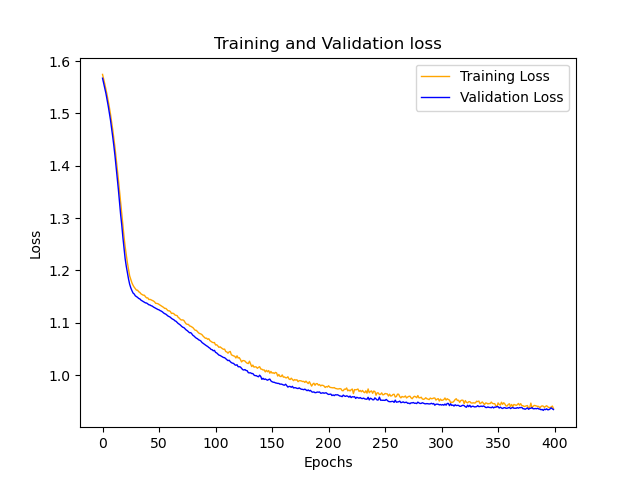
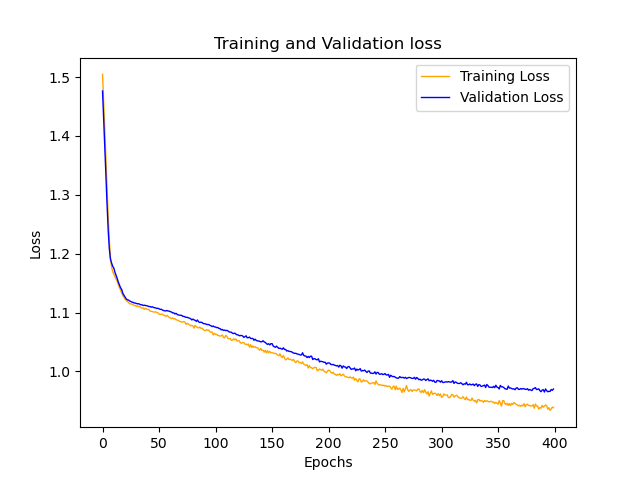
Added global pooling

diff --git a/src/graph_neural_nets.py b/src/graph_neural_nets.py
@@ -1,7 +1,7 @@
 import torch
 import torch.nn.functional as F
 from torch.nn import Sequential, Linear, BatchNorm1d, Dropout,LeakyReLU, AvgPool1d
-from torch_geometric.nn import GINEConv, GATConv
+from torch_geometric.nn import GINEConv, GATConv, global_add_pool
 
 class DiceLoss(torch.nn.Module):
     def __init__(self):
@@ -135,13 +135,11 @@ class GIN(torch.nn.Module):
                                         LeakyReLU(),
                                         Dropout(p=0.2)
                                         ), edge_dim=edge_dim)
-
-        #self.pool = AvgPool1d(kernel_size=3, stride=1)
-        self.lin = Sequential(Linear(h_dim*3, h_dim*3),
+        self.lin = Sequential(Linear(h_dim*4, h_dim*4),
                               LeakyReLU(),
-                              Linear(h_dim*3, 1))
+                              Linear(h_dim*4, 1))
 
-    def forward(self, x, edge_index, edge_attr):
+    def forward(self, x, edge_index, edge_attr, batch, device):
 
         # Node embeddings
         h1 = self.conv1(x, edge_index, edge_attr)
@@ -149,11 +147,12 @@ class GIN(torch.nn.Module):
         h3 = self.conv3(h2, edge_index, edge_attr)
 
         # Pooling
-        #h_pool = self.pool(torch.stack((h1,h2,h3), dim=-1))
+        h_pool = global_add_pool(h3, batch)
+        num_atoms_per_mol = torch.unique(batch, sorted=False, return_counts=True)[1]
+        h_pool_ = torch.repeat_interleave(h_pool, num_atoms_per_mol, dim=0)
 
         # Concatenate embeddings
-        #h = torch.cat((h1,h2, h3,torch.squeeze(h_pool)), dim=1)
-        h = torch.cat((h1,h2,h3), dim=1)
+        h = torch.cat((h1,h2,h3,h_pool_), dim=1)
 
         # Classify
         h = self.lin(h)
@@ -192,15 +191,21 @@ class GAT(torch.nn.Module):
                               LeakyReLU(),
                               Linear(h_dim*num_heads*3, 1))
 
-    def forward(self, x, edge_index, edge_attr):
+    def forward(self, x, edge_index, edge_attr, batch, device):
 
         # Node embeddings
         h1 = self.conv1(x, edge_index, edge_attr)
         h2 = self.conv2(h1, edge_index, edge_attr)
         h3 = self.conv3(h2, edge_index, edge_attr)
 
+        # Pooling
+        h_pool = global_add_pool(h3, batch)
+        h_pool_ = torch.zeros(h3.shape).to(device)
+        for i in range(len(batch)):
+            h_pool_[i,:] = h_pool[batch[i]]
+
         # Concatenate embeddings
-        h = torch.cat((h1,h2,h3), dim=1)
+        h = torch.cat((h1,h2,h3,h_pool_), dim=1)
 
         # Classify
         h = self.lin(h)
@@ -216,7 +221,7 @@ def train_oversampling(model, loader, lr, weight_decay, device):
     total_num_instances = 0
     for data in loader:
         data = data.to(device)
-        out = model(data.x, data.edge_index, data.edge_attr)  # forward pass
+        out = model(data.x, data.edge_index, data.edge_attr, data.batch, device)  # forward pass
         num_subsamplings = data.sampling_mask.shape[1]
         subsampling_losses = torch.zeros(num_subsamplings)
         for i in range(num_subsamplings):
@@ -233,12 +238,12 @@ def train_oversampling(model, loader, lr, weight_decay, device):
 def train(model, loader, lr, weight_decay, device):
     model.train()
     optimizer = torch.optim.Adam(model.parameters(), lr=lr, weight_decay=weight_decay)
-    loss_function = MCCLoss()
+    loss_function = DiceBCELoss()
     loss = 0
     total_num_instances = 0
     for data in loader:
         data = data.to(device)
-        out = model(data.x, data.edge_index, data.edge_attr)  # forward pass
+        out = model(data.x, data.edge_index, data.edge_attr, data.batch, device)  # forward pass
         batch_loss = loss_function(out[:,0].to(float), data.y.to(float))
         loss += batch_loss * len(data.batch)
         total_num_instances += len(data.batch)
@@ -251,14 +256,14 @@ def train(model, loader, lr, weight_decay, device):
 @torch.no_grad()
 def test(model, loader, device):
     model.eval()
-    loss_function = MCCLoss()
+    loss_function = DiceBCELoss()
     loss = 0
     total_num_instances = 0
     predictions = []
     true_labels = []
     for data in loader:
         data = data.to(device)
-        out = model(data.x, data.edge_index, data.edge_attr)
+        out = model(data.x, data.edge_index, data.edge_attr, data.batch, device)
         batch_loss = loss_function(out[:,0].to(float), data.y.to(float))
         loss += batch_loss * len(data.batch)
         total_num_instances += len(data.batch)

diff --git a/som_gnn.py b/som_gnn.py
@@ -14,7 +14,7 @@ from tqdm import tqdm
 from src.process_input_data import process_data
 from src.pyg_dataset_creator import SOM
 from src.graph_neural_nets import GIN, GAT, train, test
-from src.utils import EarlyStopping, plot_losses, plot_roc_curve
+from src.utils import plot_losses, plot_roc_curve
 
 
 def main():
@@ -47,7 +47,7 @@ def main():
 
     # Set parameters
     h_dim = 16
-    epochs = 800
+    epochs = 400
     lr = 1e-4
     weight_decay = 1e-3
 
@@ -57,8 +57,8 @@ def main():
 
     # Training/Validation Split
     train_dataset, val_dataset = train_test_split(train_val_dataset, test_size=1/9, random_state=42, shuffle=True)
-    print(f'Training set: {len(train_dataset)} molecules.')
     print(f'Validation set: {len(val_dataset)} molecules.')
+    print(f'Training set: {len(train_dataset)} molecules.')
 
     #  Data Loader
     train_loader = DataLoader(train_dataset, batch_size=64, shuffle=True)
@@ -75,10 +75,7 @@ def main():
 
     """ ---------- Train Model ---------- """
 
-    # Directory for storing output
-    dir = 'output/mcc/'
-
-    #early_stopping = EarlyStopping(patience=10, delta=0.001)
+    dir = 'output/dicebce/'
     train_losses = []
     val_losses = []
     print('Training...')
@@ -87,10 +84,6 @@ def main():
         train_losses.append(train_loss.item())
         val_loss, val_pred, val_true = test(model, val_loader, device)
         val_losses.append(val_loss.item())
-        #early_stopping(criterion=val_loss, opt_mode='min')
-        #if early_stopping.early_stop:
-        #    print("Early stopping")
-        #    break
     print('Training done!')
     torch.save(model.state_dict(), 'output/model.pt')
 
